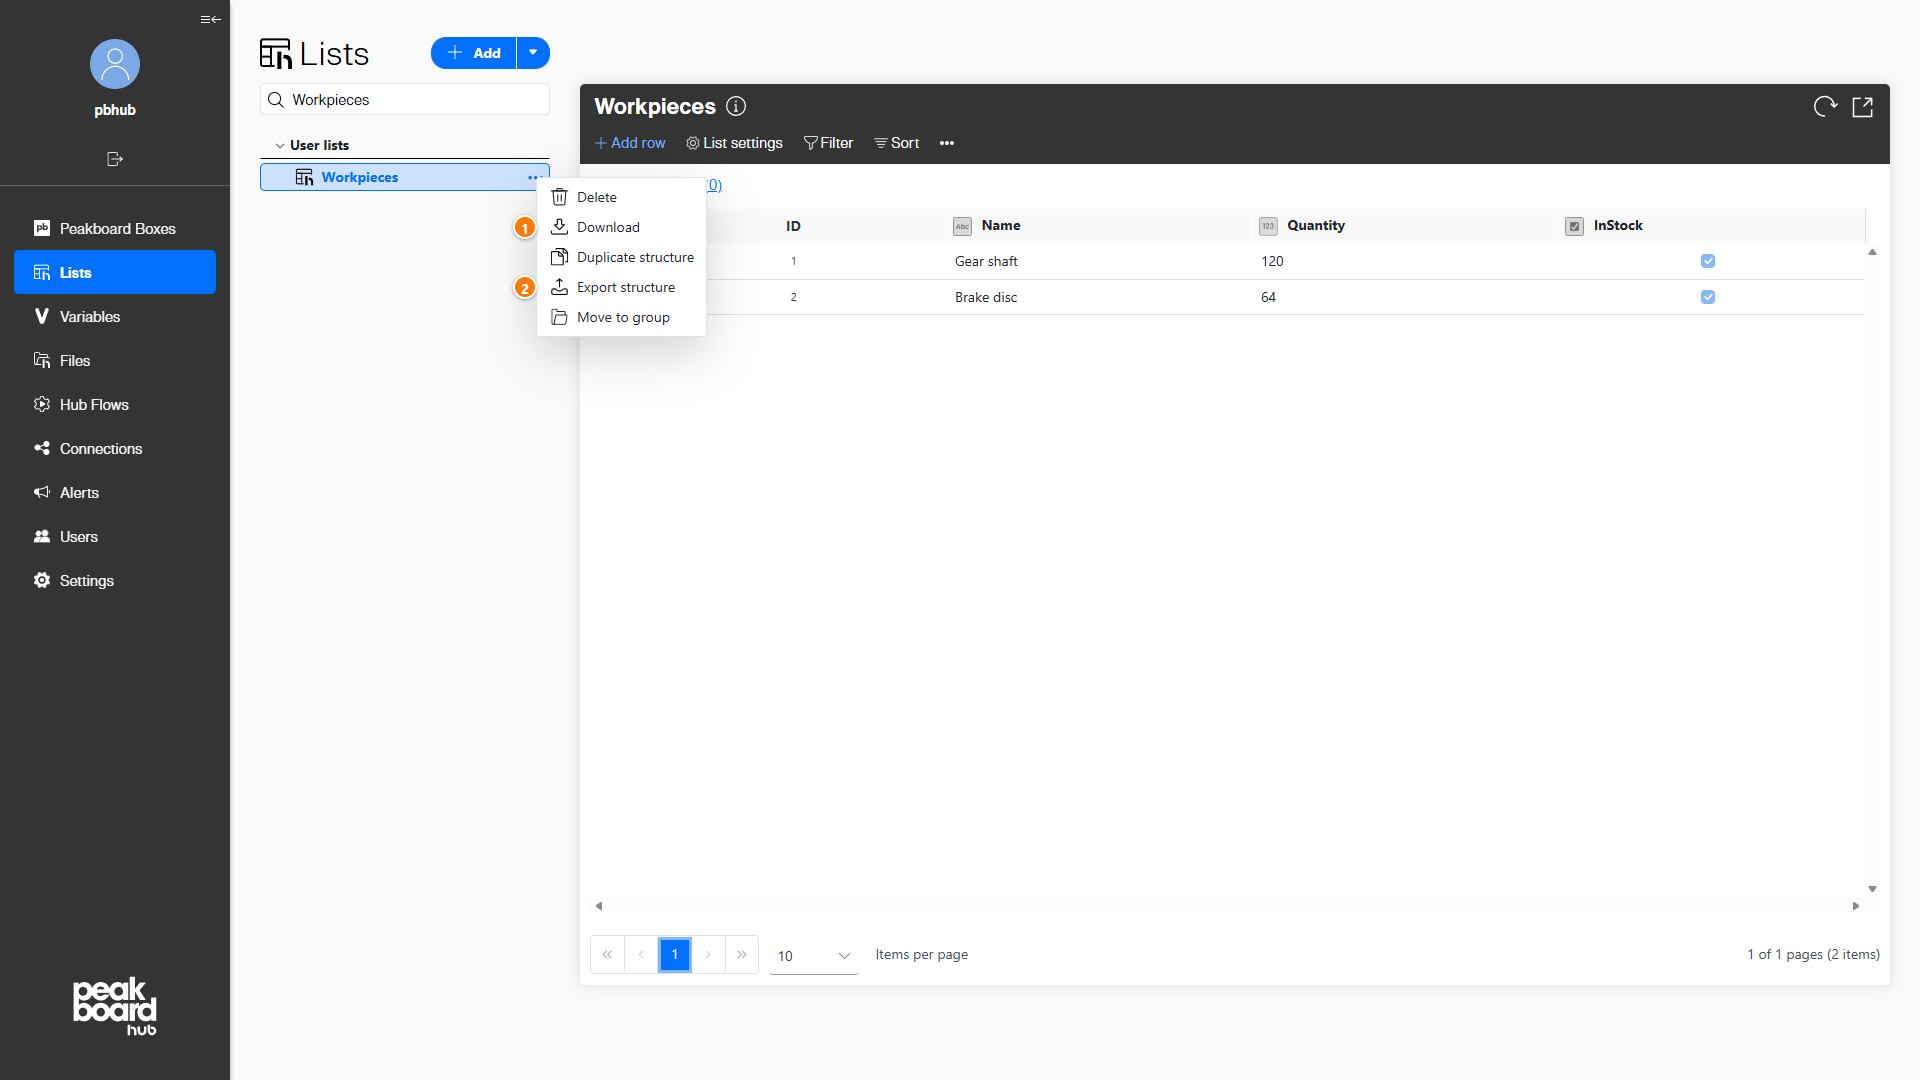
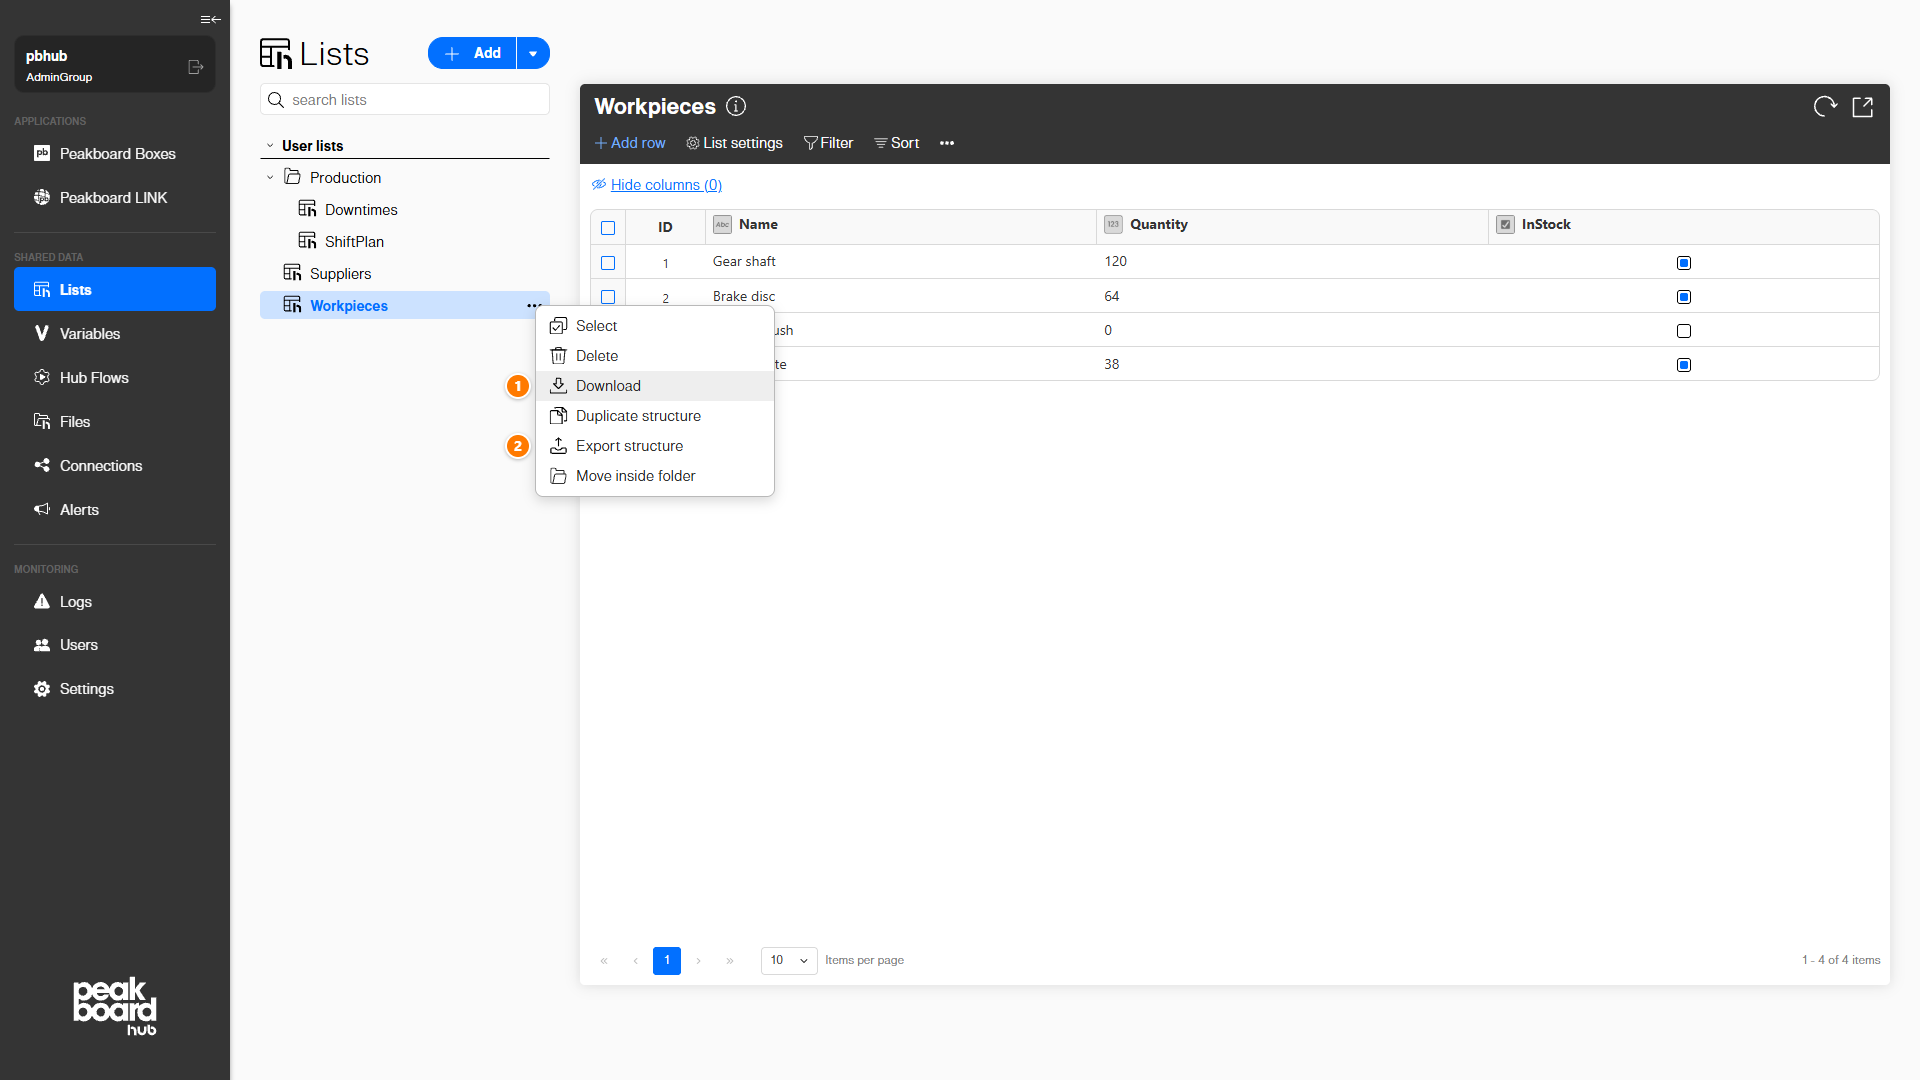
docs(hub): list menu says "Move inside folder" / "Change folder" instead of "Move to group" (DE+EN, re-shot screenshots)

diff --git a/content/_hub/Listen/de-hub_lists-overview.md b/content/_hub/Listen/de-hub_lists-overview.md
@@ -16,7 +16,7 @@ Die Listenansicht im Peakboard Hub bietet dir eine zentrale Oberfläche zum Verw
 
 In der linken Seitenleiste werden unter dem Menüpunkt [Lists] alle angelegten Listen angezeigt. Über den [Add] Button (1) legst du neue Listen an oder importierst bestehende. Klickst du eine Liste (2) an, öffnet sich ihr Inhalt im Hauptbereich.
 
-Jede Liste verfügt über ein Dreipunktmenü (3), das weitere Aktionen bietet: [Delete] (Löschen), [Download] (Herunterladen), [Duplicate structure] (Struktur duplizieren), [Export structure] (Strukturexport) und [Move to group] (in eine Gruppe verschieben).
+Jede Liste verfügt über ein Dreipunktmenü (3), das weitere Aktionen bietet: [Select] (Auswählen), [Delete] (Löschen), [Download] (Herunterladen), [Duplicate structure] (Struktur duplizieren), [Export structure] (Strukturexport) und [Move inside folder] (in einen Ordner verschieben). Befindet sich die Liste bereits in einem Ordner, heißt diese Option stattdessen [Change folder] (Ordner wechseln).
 
 ![Listen Seitenleiste](/assets/images/hub/lists-overview/lists-overview-01-sidebar.png)
 

diff --git a/content/_hub/Lists/en-hub_lists-overview.md b/content/_hub/Lists/en-hub_lists-overview.md
@@ -16,7 +16,7 @@ The list view in Peakboard Hub provides a central interface for managing, editin
 
 In the left sidebar, all created lists are displayed under the menu item [Lists]. Use the [Add] button (1) to create new lists or import existing ones. Clicking a list (2) opens its contents in the main area.
 
-Each list has a three-dot menu (3) that offers additional actions: [Delete], [Download], [Duplicate structure], [Export structure] and [Move to group].
+Each list has a three-dot menu (3) that offers additional actions: [Select], [Delete], [Download], [Duplicate structure], [Export structure] and [Move inside folder]. If the list is already in a folder, this option is called [Change folder] instead.
 
 ![Lists sidebar](/assets/images/hub/lists-overview/lists-overview-01-sidebar.png)
 
